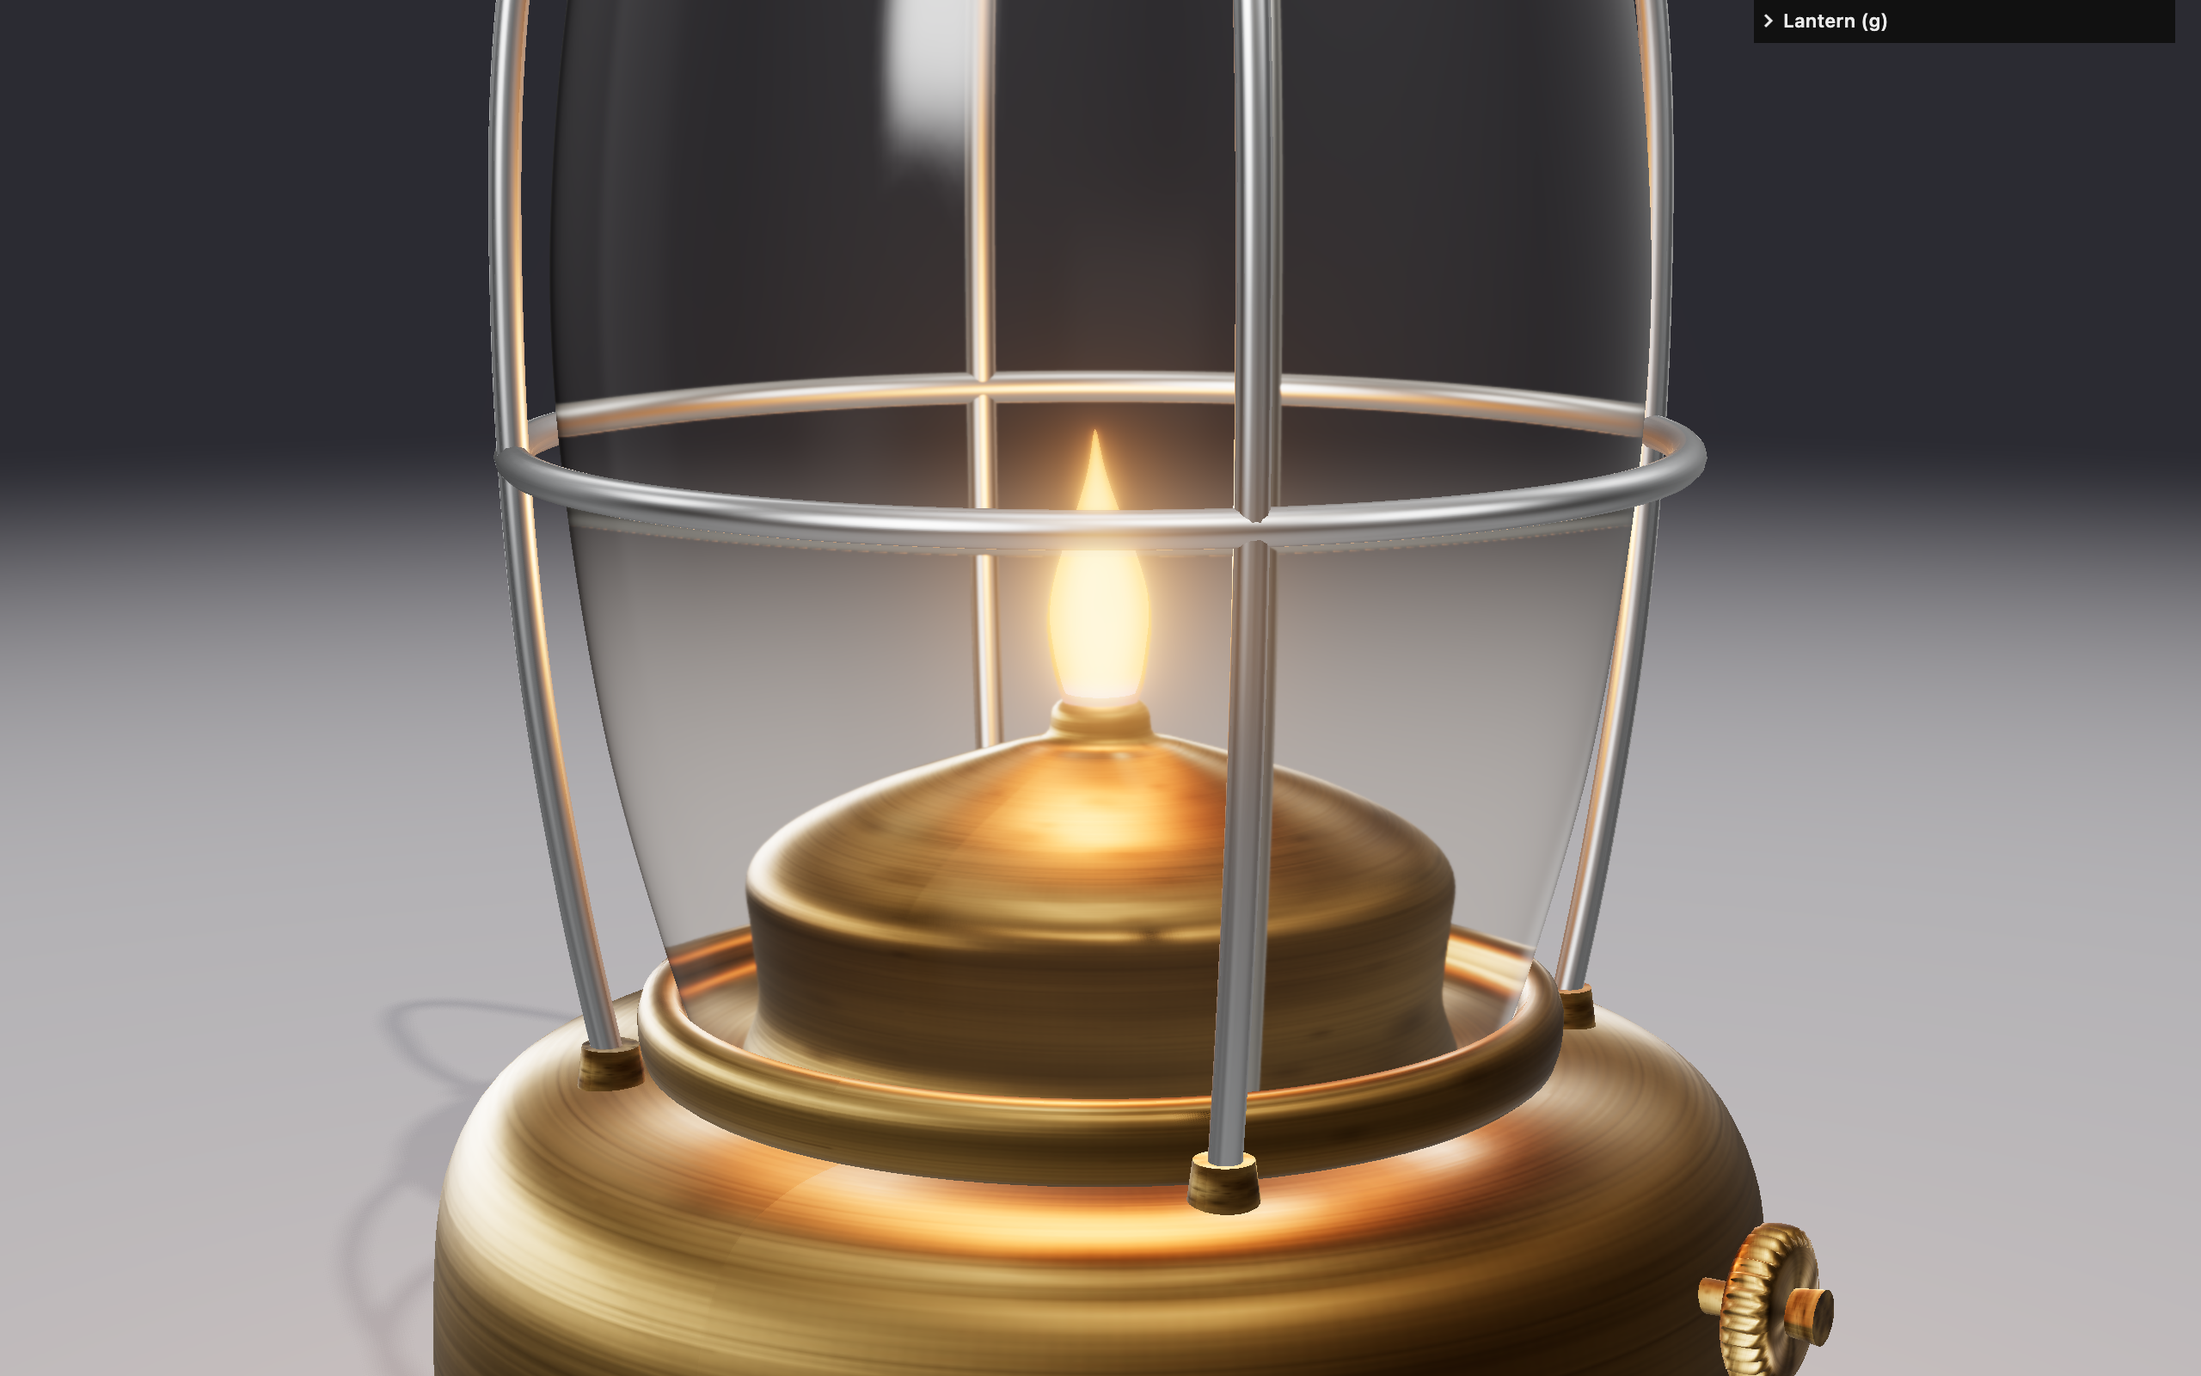
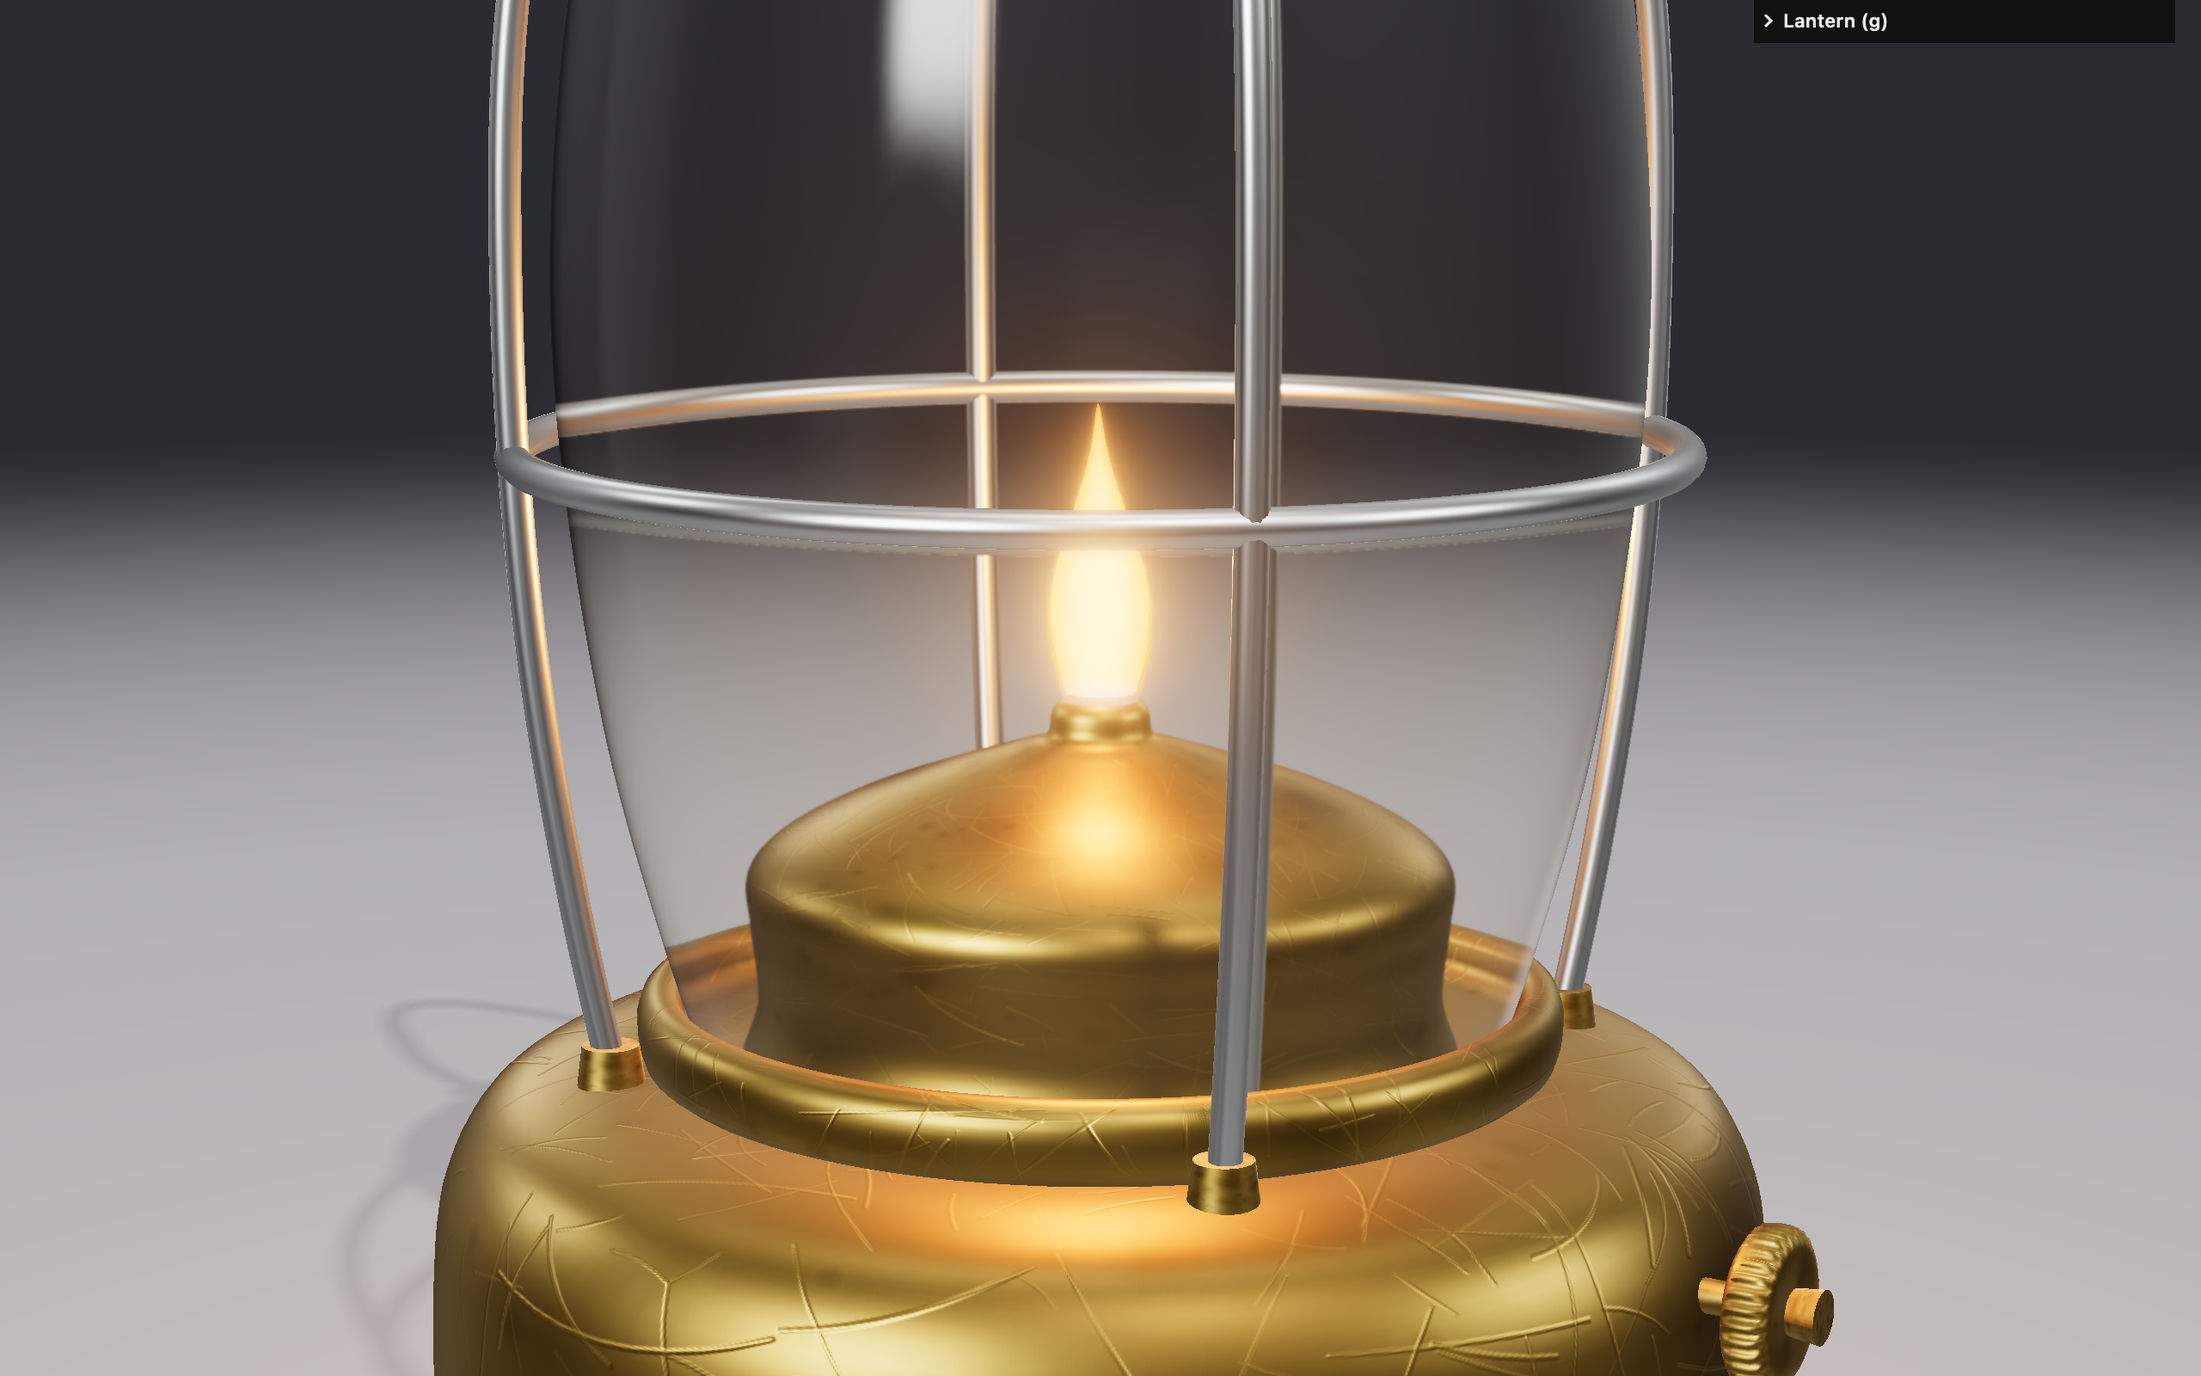
feat(v3): scratched brass
- New src/lantern/brassTextures.ts: ~500 thin, slightly curved quadratic
  strokes (20-200 px, 12 % long/bright, plus 2-3 ray "stars") on 1024^2
  canvases, separate from the tarnish blotches (now weaker).
- Same strokes feed map (lighter), roughnessMap and a CPU-built normal map
  (central differences of a blurred stroke mask), normalScale 0.18.
- Scratches are rougher than the ~0.45 background: glossy lines mirrored the
  dark backdrop and read as dark cracks; matte grooves catch the key light
  and read as the bright hairlines of the reference.
- Brass #b5964f, anisotropy 0.1 (no brushed look).
- GUI "Scratches": count, brightness, seed (regenerates textures), relief.
- v3-vs-reference.png adds cap and reservoir detail crops.

Changed region(s): [[0.1875, 0.5, 0.8438, 1.0], [0.4688, 0.2812, 0.5312, 0.375]]

diff --git a/src/lantern/brassTextures.ts b/src/lantern/brassTextures.ts
@@ -1,0 +1,182 @@
+import { CanvasTexture, NoColorSpace, RepeatWrapping, SRGBColorSpace, Texture } from 'three';
+
+/** Scratched-lacquer brass: thin bright curved strokes over faint tarnish, all drawn on 2D canvases. */
+export interface ScratchParams {
+  count: number;
+  brightness: number;
+  seed: number;
+}
+
+export interface BrassTextures {
+  map: CanvasTexture;
+  roughnessMap: CanvasTexture;
+  normalMap: CanvasTexture;
+  regenerate(params: ScratchParams): void;
+}
+
+const SIZE = 1024;
+
+// Deterministic PRNG so the generated textures are identical on every load.
+function mulberry32(seed: number): () => number {
+  let a = seed;
+  return () => {
+    a |= 0;
+    a = (a + 0x6d2b79f5) | 0;
+    let t = Math.imul(a ^ (a >>> 15), 1 | a);
+    t = (t + Math.imul(t ^ (t >>> 7), 61 | t)) ^ t;
+    return ((t ^ (t >>> 14)) >>> 0) / 4294967296;
+  };
+}
+
+function canvas2d(): [HTMLCanvasElement, CanvasRenderingContext2D] {
+  const c = document.createElement('canvas');
+  c.width = c.height = SIZE;
+  return [c, c.getContext('2d', { willReadFrequently: true })!];
+}
+
+/** Soft blotches; drawn three times across U so the lathe seam does not show. */
+function blotches(ctx: CanvasRenderingContext2D, rand: () => number, count: number, rgb: string, maxAlpha: number, minR: number, maxR: number): void {
+  for (let i = 0; i < count; i++) {
+    const x = rand() * SIZE;
+    const y = rand() * SIZE;
+    const r = minR + rand() * (maxR - minR);
+    const a = rand() * maxAlpha;
+    for (const dx of [-SIZE, 0, SIZE]) {
+      const g = ctx.createRadialGradient(x + dx, y, 0, x + dx, y, r);
+      g.addColorStop(0, `rgba(${rgb},${a})`);
+      g.addColorStop(1, `rgba(${rgb},0)`);
+      ctx.fillStyle = g;
+      ctx.fillRect(x + dx - r, y - r, r * 2, r * 2);
+    }
+  }
+}
+
+interface Stroke {
+  x: number;
+  y: number;
+  cx: number;
+  cy: number;
+  ex: number;
+  ey: number;
+  width: number;
+  alpha: number;
+}
+
+/** Random slightly-curved strokes, a few long bright ones, and small 2-3 line "stars". */
+function makeStrokes(rand: () => number, count: number): Stroke[] {
+  const strokes: Stroke[] = [];
+  const add = (x: number, y: number, angle: number, len: number, alpha: number, width: number) => {
+    const bend = (rand() - 0.5) * 0.35 * len; // small curvature
+    const mx = x + Math.cos(angle) * len * 0.5 - Math.sin(angle) * bend;
+    const my = y + Math.sin(angle) * len * 0.5 + Math.cos(angle) * bend;
+    strokes.push({ x, y, cx: mx, cy: my, ex: x + Math.cos(angle) * len, ey: y + Math.sin(angle) * len, width, alpha });
+  };
+  for (let i = 0; i < count; i++) {
+    const long = rand() < 0.12;
+    const len = long ? 110 + rand() * 90 : 20 + rand() * 90;
+    const alpha = long ? 0.55 + rand() * 0.25 : 0.3 + rand() * 0.4;
+    add(rand() * SIZE, rand() * SIZE, rand() * Math.PI * 2, len, alpha, rand() < 0.25 ? 2 : 1);
+  }
+  const stars = Math.round(count / 40);
+  for (let i = 0; i < stars; i++) {
+    const x = rand() * SIZE;
+    const y = rand() * SIZE;
+    const rays = 2 + Math.floor(rand() * 2);
+    const base = rand() * Math.PI * 2;
+    for (let k = 0; k < rays; k++) {
+      add(x, y, base + (k * Math.PI * 2) / rays + (rand() - 0.5) * 0.8, 25 + rand() * 60, 0.5 + rand() * 0.3, 1);
+    }
+  }
+  return strokes;
+}
+
+function drawStrokes(ctx: CanvasRenderingContext2D, strokes: Stroke[], rgb: string, alphaScale: number): void {
+  ctx.lineCap = 'round';
+  for (const s of strokes) {
+    ctx.strokeStyle = `rgba(${rgb},${Math.min(1, s.alpha * alphaScale)})`;
+    ctx.lineWidth = s.width;
+    for (const dx of [-SIZE, 0, SIZE]) {
+      ctx.beginPath();
+      ctx.moveTo(s.x + dx, s.y);
+      ctx.quadraticCurveTo(s.cx + dx, s.cy, s.ex + dx, s.ey);
+      ctx.stroke();
+    }
+  }
+}
+
+/** Height (scratch mask, slightly blurred) -> tangent-space normal map via central differences. */
+function heightToNormal(height: CanvasRenderingContext2D, out: CanvasRenderingContext2D, strength: number): void {
+  const src = height.getImageData(0, 0, SIZE, SIZE).data;
+  const img = out.createImageData(SIZE, SIZE);
+  const dst = img.data;
+  const h = (x: number, y: number) => src[(((y + SIZE) % SIZE) * SIZE + ((x + SIZE) % SIZE)) * 4] / 255;
+  for (let y = 0; y < SIZE; y++) {
+    for (let x = 0; x < SIZE; x++) {
+      // Scratches are grooves: height goes down where the mask is bright
+      const dx = (h(x - 1, y) - h(x + 1, y)) * -strength;
+      const dy = (h(x, y - 1) - h(x, y + 1)) * -strength;
+      const inv = 1 / Math.hypot(dx, dy, 1);
+      const i = (y * SIZE + x) * 4;
+      dst[i] = (dx * inv * 0.5 + 0.5) * 255;
+      dst[i + 1] = (dy * inv * 0.5 + 0.5) * 255;
+      dst[i + 2] = (inv * 0.5 + 0.5) * 255;
+      dst[i + 3] = 255;
+    }
+  }
+  out.putImageData(img, 0, 0);
+}
+
+function texture(canvas: HTMLCanvasElement, srgb: boolean): CanvasTexture {
+  const tex = new CanvasTexture(canvas);
+  tex.colorSpace = srgb ? SRGBColorSpace : NoColorSpace;
+  tex.wrapS = tex.wrapT = RepeatWrapping;
+  // Lathe U spans the circumference (~2x the profile length), so repeat U twice to keep strokes isotropic.
+  tex.repeat.set(2, 1);
+  tex.anisotropy = 8;
+  return tex;
+}
+
+export function createBrassTextures(params: ScratchParams): BrassTextures {
+  const [colorCanvas, color] = canvas2d();
+  const [roughCanvas, rough] = canvas2d();
+  const [, height] = canvas2d();
+  const [normalCanvas, normal] = canvas2d();
+
+  const result: BrassTextures = {
+    map: texture(colorCanvas, true),
+    roughnessMap: texture(roughCanvas, false),
+    normalMap: texture(normalCanvas, false),
+    regenerate(p: ScratchParams) {
+      const strokes = makeStrokes(mulberry32(p.seed), Math.round(p.count));
+
+      // Albedo: near-white (tinted by material.color), faint tarnish, scratches a touch lighter.
+      color.fillStyle = '#ededed';
+      color.fillRect(0, 0, SIZE, SIZE);
+      const tr = mulberry32(p.seed + 1);
+      blotches(color, tr, 60, '90,70,40', 0.22, 40, 220);
+      blotches(color, tr, 120, '70,50,30', 0.15, 6, 30);
+      drawStrokes(color, strokes, '255,250,232', 0.6 * p.brightness);
+
+      // Roughness (x material.roughness 0.52): background ~0.45, tarnish duller. Scratches are made
+      // ROUGHER: a glossy line mirrors the dark backdrop and reads as a dark crack, while a matte
+      // micro-groove scatters the key light and reads as the bright hairline seen in the reference.
+      rough.fillStyle = 'rgb(220,220,220)';
+      rough.fillRect(0, 0, SIZE, SIZE);
+      const rr = mulberry32(p.seed + 1);
+      blotches(rough, rr, 60, '255,255,255', 0.4, 40, 220);
+      drawStrokes(rough, strokes, '255,255,255', 1.0 * p.brightness);
+
+      // Normal map from a soft scratch mask so the grooves catch light at grazing angles.
+      height.fillStyle = '#000';
+      height.fillRect(0, 0, SIZE, SIZE);
+      height.filter = 'blur(0.6px)';
+      drawStrokes(height, strokes, '255,255,255', 1);
+      height.filter = 'none';
+      heightToNormal(height, normal, 2.0);
+
+      for (const t of [result.map, result.roughnessMap, result.normalMap] as Texture[]) t.needsUpdate = true;
+    },
+  };
+  result.regenerate(params);
+  return result;
+}

diff --git a/src/lantern/materials.ts b/src/lantern/materials.ts
@@ -1,149 +1,29 @@
-import {
-  CanvasTexture,
-  Color,
-  FrontSide,
-  MeshPhysicalMaterial,
-  MeshStandardMaterial,
-  NoColorSpace,
-  RepeatWrapping,
-  SRGBColorSpace,
-} from 'three';
+import { Color, FrontSide, MeshPhysicalMaterial, MeshStandardMaterial, Vector2 } from 'three';
+import { createBrassTextures, type BrassTextures, type ScratchParams } from './brassTextures';
 
 export interface LanternMaterials {
   brass: MeshPhysicalMaterial;
   steel: MeshStandardMaterial;
   glass: MeshPhysicalMaterial;
   wick: MeshStandardMaterial;
-}
-
-// Deterministic PRNG so the generated textures are identical on every load.
-function mulberry32(seed: number): () => number {
-  let a = seed;
-  return () => {
-    a |= 0;
-    a = (a + 0x6d2b79f5) | 0;
-    let t = Math.imul(a ^ (a >>> 15), 1 | a);
-    t = (t + Math.imul(t ^ (t >>> 7), 61 | t)) ^ t;
-    return ((t ^ (t >>> 14)) >>> 0) / 4294967296;
-  };
-}
-
-function makeCanvas(size: number): [HTMLCanvasElement, CanvasRenderingContext2D] {
-  const canvas = document.createElement('canvas');
-  canvas.width = canvas.height = size;
-  const ctx = canvas.getContext('2d')!;
-  return [canvas, ctx];
-}
-
-/** Soft blotches drawn with radial gradients; wraps horizontally to hide the lathe seam. */
-function blotches(
-  ctx: CanvasRenderingContext2D,
-  size: number,
-  rand: () => number,
-  count: number,
-  rgb: string,
-  maxAlpha: number,
-  minR: number,
-  maxR: number,
-): void {
-  for (let i = 0; i < count; i++) {
-    const x = rand() * size;
-    const y = rand() * size;
-    const r = minR + rand() * (maxR - minR);
-    const a = rand() * maxAlpha;
-    for (const dx of [-size, 0, size]) {
-      const g = ctx.createRadialGradient(x + dx, y, 0, x + dx, y, r);
-      g.addColorStop(0, `rgba(${rgb},${a})`);
-      g.addColorStop(1, `rgba(${rgb},0)`);
-      ctx.fillStyle = g;
-      ctx.fillRect(x + dx - r, y - r, r * 2, r * 2);
-    }
-  }
-}
-
-/** Fine horizontal scratches (lathe-turned / polished look). */
-function scratches(
-  ctx: CanvasRenderingContext2D,
-  size: number,
-  rand: () => number,
-  count: number,
-  rgb: string,
-  maxAlpha: number,
-): void {
-  ctx.lineWidth = 1;
-  for (let i = 0; i < count; i++) {
-    const y = rand() * size;
-    const x = rand() * size;
-    const len = 20 + rand() * size * 0.5;
-    const tilt = (rand() - 0.5) * 6;
-    ctx.strokeStyle = `rgba(${rgb},${rand() * maxAlpha})`;
-    ctx.beginPath();
-    ctx.moveTo(x, y);
-    ctx.lineTo(x + len, y + tilt);
-    ctx.stroke();
-  }
-}
-
-/** Full-width rows of slightly different value: circumferential brushing once wrapped on a lathe. */
-function brushed(
-  ctx: CanvasRenderingContext2D,
-  size: number,
-  rand: () => number,
-  rgb: string,
-  maxAlpha: number,
-): void {
-  for (let y = 0; y < size; y++) {
-    ctx.fillStyle = `rgba(${rgb},${rand() * rand() * maxAlpha})`;
-    ctx.fillRect(0, y, size, 1);
-  }
-}
-
-function brassColorMap(): CanvasTexture {
-  const size = 512;
-  const [canvas, ctx] = makeCanvas(size);
-  const rand = mulberry32(7);
-  ctx.fillStyle = '#f2f2f2';
-  ctx.fillRect(0, 0, size, size);
-  blotches(ctx, size, rand, 70, '95,70,40', 0.42, 25, 120); // tarnish patches
-  blotches(ctx, size, rand, 120, '70,50,30', 0.3, 4, 18); // small oxidation spots
-  blotches(ctx, size, rand, 40, '255,245,220', 0.2, 15, 70); // polished spots
-  brushed(ctx, size, rand, '80,60,35', 0.18);
-  scratches(ctx, size, rand, 400, '90,70,40', 0.15);
-  const tex = new CanvasTexture(canvas);
-  tex.colorSpace = SRGBColorSpace;
-  tex.wrapS = tex.wrapT = RepeatWrapping;
-  tex.anisotropy = 8;
-  return tex;
-}
-
-function brassRoughnessMap(): CanvasTexture {
-  const size = 512;
-  const [canvas, ctx] = makeCanvas(size);
-  const rand = mulberry32(42);
-  ctx.fillStyle = 'rgb(200,200,200)';
-  ctx.fillRect(0, 0, size, size);
-  brushed(ctx, size, rand, '255,255,255', 0.55); // rougher brushing grooves
-  brushed(ctx, size, rand, '90,90,90', 0.35); // glossier ridges
-  blotches(ctx, size, rand, 70, '255,255,255', 0.5, 25, 120); // dull tarnish (matches color map)
-  blotches(ctx, size, rand, 50, '60,60,60', 0.35, 10, 60); // polished spots
-  scratches(ctx, size, rand, 600, '255,255,255', 0.3);
-  const tex = new CanvasTexture(canvas);
-  tex.colorSpace = NoColorSpace;
-  tex.wrapS = tex.wrapT = RepeatWrapping;
-  tex.anisotropy = 8;
-  return tex;
+  scratches: { params: ScratchParams; textures: BrassTextures };
 }
 
 export function createMaterials(): LanternMaterials {
-  // Anisotropy direction follows the lathe's U (around the axis), i.e. circular brushing.
+  const scratchParams: ScratchParams = { count: 500, brightness: 1, seed: 7 };
+  const brassTextures = createBrassTextures(scratchParams);
+
+  // Darker, olive brass under a scratched lacquer; anisotropy kept low so it does not read as brushed.
   const brass = new MeshPhysicalMaterial({
-    color: new Color('#c4a265'),
+    color: new Color('#b5964f'),
     metalness: 1,
-    roughness: 0.42,
-    anisotropy: 0.5,
+    roughness: 0.52, // x roughnessMap background (~0.86) = ~0.45
+    anisotropy: 0.1,
     anisotropyRotation: 0,
-    map: brassColorMap(),
-    roughnessMap: brassRoughnessMap(),
+    map: brassTextures.map,
+    roughnessMap: brassTextures.roughnessMap,
+    normalMap: brassTextures.normalMap,
+    normalScale: new Vector2(0.18, 0.18),
     envMapIntensity: 1,
   });
 
@@ -173,5 +53,11 @@ export function createMaterials(): LanternMaterials {
     metalness: 0,
   });
 
-  return { brass, steel, glass, wick };
+  return {
+    brass,
+    steel,
+    glass,
+    wick,
+    scratches: { params: scratchParams, textures: brassTextures },
+  };
 }

diff --git a/src/gui.ts b/src/gui.ts
@@ -22,6 +22,16 @@ export function setupGui(
   brass.add(materials.brass, 'anisotropy', 0, 1, 0.01);
   brass.add(materials.brass, 'anisotropyRotation', 0, Math.PI, 0.01);
 
+  const { params: scratchParams, textures: scratchTextures } = materials.scratches;
+  const regenerate = () => scratchTextures.regenerate(scratchParams);
+  const scratches = gui.addFolder('Scratches');
+  scratches.add(scratchParams, 'count', 0, 1500, 10).onFinishChange(regenerate);
+  scratches.add(scratchParams, 'brightness', 0, 2, 0.05).onFinishChange(regenerate);
+  scratches.add(scratchParams, 'seed', 1, 999, 1).onFinishChange(regenerate);
+  scratches.add(materials.brass.normalScale, 'x', 0, 1, 0.01).name('relief').onChange((v: number) => {
+    materials.brass.normalScale.y = v;
+  });
+
   const glass = gui.addFolder('Glass');
   glass.add(materials.glass, 'transmission', 0, 1, 0.01);
   glass.add(materials.glass, 'ior', 1, 2.333, 0.01);

diff --git a/README.md b/README.md
@@ -20,7 +20,7 @@ Press `g` to show or hide the tweak panel (lil-gui).
 - **Environment:** `RoomEnvironment` goes through `PMREMGenerator` to give image-based lighting with no HDR file. There is one directional key light with soft shadows, plus a hemisphere fill. A gradient backdrop dome (GLSL) sits behind everything. The floor disk blends into the backdrop's horizon color by radius, through an `onBeforeCompile` patch.
 - **Flame:** a `ShaderMaterial` with value-noise fbm written in GLSL, plus a flickering point light. The flame shader is opaque with an alpha cutout, because transmission glass only refracts opaque objects.
 - **Post:** selective bloom. The flame sits on its own layer. A first composer renders the scene with every other mesh blacked out (glass hidden) and blurs it. A second composer adds that glow onto the normal render, then `OutputPass` applies ACES tone mapping + sRGB.
-- **Brass:** `MeshPhysicalMaterial` with anisotropy along the lathe U direction (circular brushing). Real tangents come from `computeTangents()`.
+- **Brass:** `MeshPhysicalMaterial` with scratched lacquer (`src/lantern/brassTextures.ts`). About 500 slightly curved strokes plus small "stars" are drawn on 1024² canvases into the color, roughness and normal maps. The normal map is built on the CPU from the stroke mask. Count, brightness, seed and relief are live in the GUI, and the textures regenerate when you change them.
 
 ## Files
 
